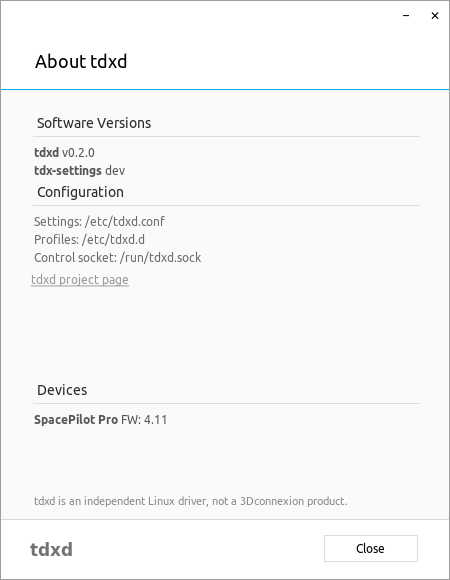
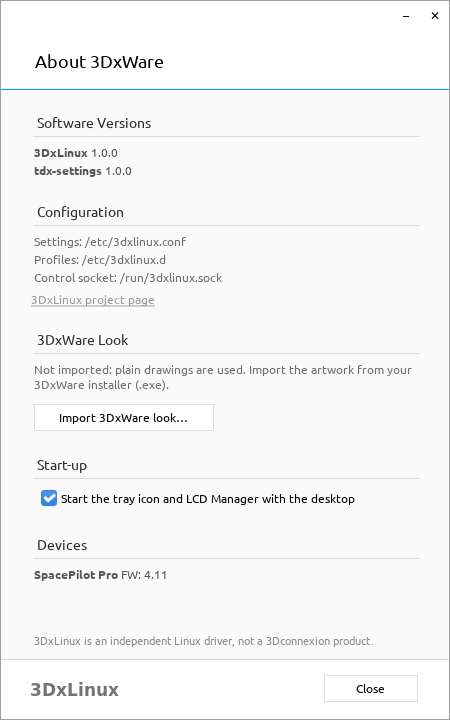
README and screenshots for 3DxLinux 1.0
The screenshots were from 0.2.0 (About tdxd, /etc/tdxd.conf,
/run/tdxd.sock): rendered again with the built-in drawings, whose footer
now reads 3DxLinux instead of tdxd. The README names the 3dxlinux files and
the 3dxlinux-lcd-* applets, says what Quit and Export do now, and lists the
Universal Receiver and CadMouse as verified.

diff --git a/README.md b/README.md
@@ -2,8 +2,10 @@
 
 3DxLinux is a user-space Linux driver for 3Dconnexion devices. It focuses on the
 **SpacePilot Pro** (046d:c629), including its 320×240 colour LCD. Its driver
-program is `tdxd`; the commands, services and settings files keep that name
-(`tdxctl`, `tdxd.service`, `/etc/3dxlinux.conf`).
+program is `tdxd`, and its commands and services keep that name (`tdxctl`,
+`tdxd.service`, the `tdxd` package). Its files are named after 3DxLinux
+(`/etc/3dxlinux.conf`, `/etc/3dxlinux.d`, `/run/3dxlinux.sock`,
+`~/.config/3dxlinux`).
 
 It was rebuilt by reverse engineering the Windows package
 `3DxWare64_v10-9-14_b745.exe` (see [docs/PROTOCOL.md](docs/PROTOCOL.md)).
@@ -236,9 +238,9 @@ found" page instead, until one is connected.
 
 **More ›** opens 3DxWare's menu:
 
-- **Import settings / Export settings:** a `.zip` with `/etc/3dxlinux.conf` and your
-  profiles in `/etc/3dxlinux.d`. Importing replaces the base settings and the
-  profiles of the same names; other profiles stay.
+- **Import settings / Export settings:** a `.zip` with your settings
+  (`3dxlinux.conf`) and your profiles (`3dxlinux.d/`). Importing replaces the
+  base settings and the profiles of the same names; other profiles stay.
 - **Reset all settings:** the base settings back to their defaults, the FreeCAD
   profile back to its shipped one, your other profiles removed. The profiles
   imported from 3DxWare stay.
@@ -259,8 +261,10 @@ Right-click it for a menu:
 - **Start with the Desktop** (a tick box): untick it and the tray icon and the
   LCD Manager no longer start when you log in. The same tick box is in the
   settings panel's About window, where ticking it also starts them again.
-- **Quit** closes the tray icon and the LCD Manager until you next log in, or
-  until you open the settings panel, which brings them back (unless Start with the
+- **Quit** closes everything 3DxLinux shows on the screen: the tray icon, the
+  LCD Manager, the On-Screen Display, the Virtual NumPad, a radial menu and
+  3Dconnexion Settings. They stay closed until you next log in, or until you
+  open the settings panel, which brings them back (unless Start with the
   Desktop is off).
 
 `tdxd` itself, the driver, keeps running either way, so the 3D mouse keeps
@@ -310,8 +314,8 @@ plain shapes, as in these screenshots:
 | ![lcd](docs/screenshots/tdx-settings-lcd.png) | ![about](docs/screenshots/tdx-settings-about.png) |
 
 It needs Python 3 with PyGObject: `sudo apt install python3-gi python3-gi-cairo
-gir1.2-gtk-3.0` (Fedora: `python3-gobject gtk3`). The Buttons window currently
-shows the SpacePilot Pro layout. `tdx-settings --snapshot DIR` renders every
+gir1.2-gtk-3.0` (Fedora: `python3-gobject gtk3`). For 3D mice the Buttons
+window shows the SpacePilot Pro layout; the CadMouse has its own Buttons window. `tdx-settings --snapshot DIR` renders every
 window to PNG (`--no-assets` forces the built-in drawings).
 
 ## Settings (compared with 3DxWare on Windows)
@@ -438,8 +442,9 @@ supported.
 ### LCD Manager and applets
 
 `tdx-lcdmgr` is a Linux port of Logitech's LCD Manager (LCDMon), which 3DxWare
-uses to run applets (Function Keys, RSS Feeds, Picture Viewer) on the
-SpacePilot PRO LCD. Run it as your user (`systemctl --user enable --now
+uses to run applets on the SpacePilot PRO LCD. 3DxLinux's ports of 3DxWare's
+applets are `3dxlinux-lcd-functionkeys` (Function Keys), `3dxlinux-lcd-rss`
+(RSS Feeds) and `3dxlinux-lcd-pictures` (Picture Viewer). Run it as your user (`systemctl --user enable --now
 tdx-lcdmgr`); it takes the LCD over from `tdxd`, serves applets written against
 the lglcd-compatible `libtdxlcd` (C) or `tdxlcd.py`, and handles the LCD's own
 navigation keys (LCD key, UP/DOWN/OK/CANCEL). The **LCD Manager** button in
@@ -499,6 +504,7 @@ tdx-lcd bmp sp4LCD.bmp                    # Giotto: legacy 0x13 path (24 bpp BMP
 | SpacePilot Pro on real hardware | **Verified** (2026-11-16, see [docs/HARDWARE_TESTS.md](docs/HARDWARE_TESTS.md)): motion, buttons, the uinput and spacenavd outputs, LCD frames, ping, brightness (3 levels), LED, the daemon's key page with SHIFT paging, and **Blender 3.0.1** navigation and view buttons through libspnav |
 | SpaceMouse Enterprise and Giotto | Not verified on hardware (no device available) |
 | LCD Manager (`tdx-lcdmgr`, `libtdxlcd`, `tdx-lcdmanager`) and the applets (Function Keys, RSS Feeds, Picture Viewer) | **Verified** on the SpacePilot Pro (2026-11-17): handover to and from `tdxd`, all eight LCD keys, the program list in the Windows look, the three applets and their Configure dialogs, autostart, Identify, brightness; end to end in `make test-lcdmgr` and `make test-lcdapplets` |
+| Universal Receiver and CadMouse Compact Wireless | **Verified** on Kubuntu 26.04, KDE Plasma Wayland (2026-11): the device chooser, battery level, Speed, Smart Scrolling, the buttons and their picker, per-application buttons, acceleration and wheel lines, pairing, the radial menus, Virtual NumPad and On-Screen Display |
 | `tdx-settings` panel and `action_*` button actions | **Verified** on the SpacePilot Pro (2026-11-17): speed ±, Dominant/Rotation/Pan Zoom toggles, and the panel's Speed, LEDs, Calibrate, button binding, LCD brightness and labels. Also unit-tested (`make test-gui`) |
 
 `docs/PROTOCOL.md` lists the open items.
